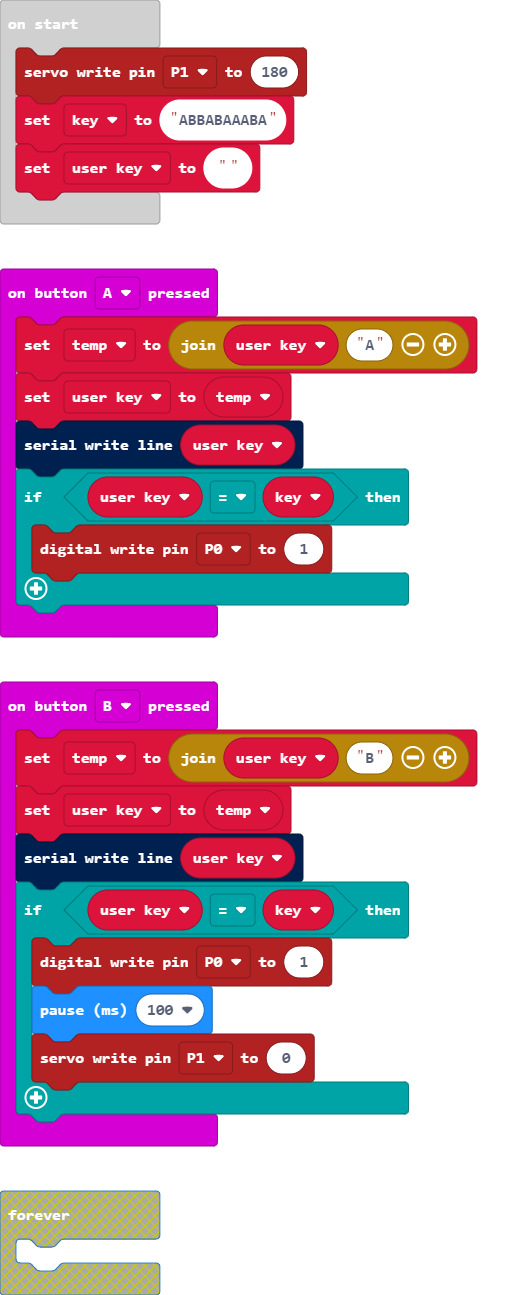
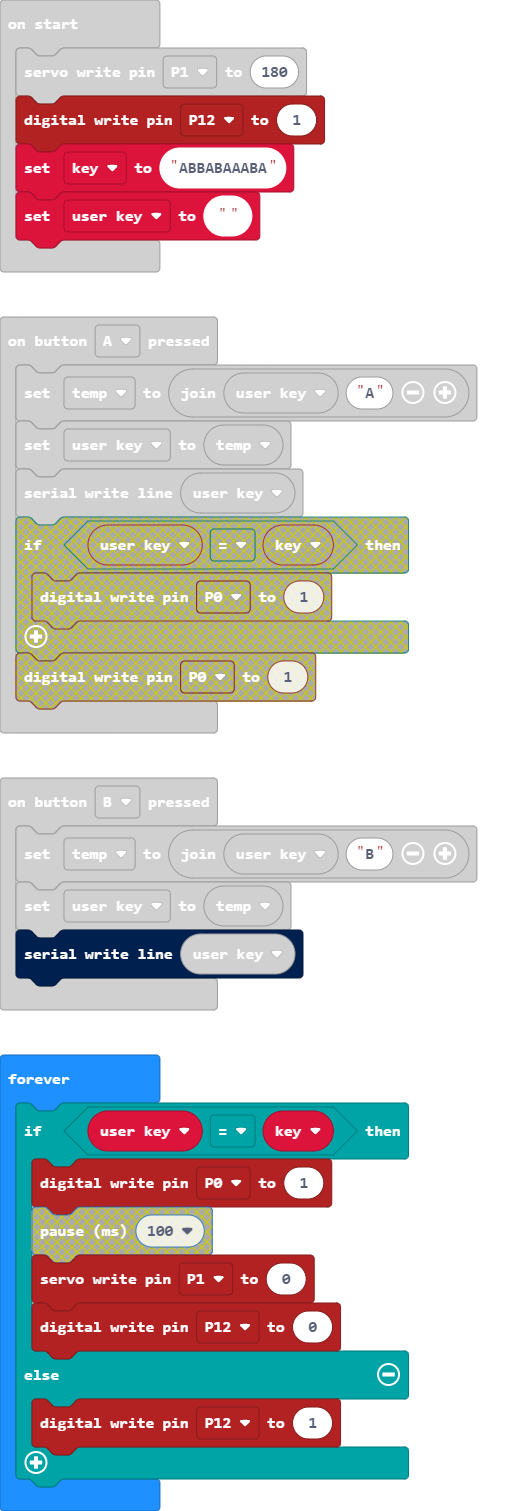
Update main.blocks, main.ts

diff --git a/main.ts b/main.ts
@@ -2,26 +2,27 @@ input.onButtonPressed(Button.A, function () {
     temp = "" + user_key + "A"
     user_key = temp
     serial.writeLine("" + (user_key))
-    if (user_key == key) {
-        pins.digitalWritePin(DigitalPin.P0, 1)
-    }
 })
 input.onButtonPressed(Button.B, function () {
     temp = "" + user_key + "B"
     user_key = temp
     serial.writeLine("" + (user_key))
-    if (user_key == key) {
-        pins.digitalWritePin(DigitalPin.P0, 1)
-        basic.pause(100)
-        pins.servoWritePin(AnalogPin.P1, 0)
-    }
 })
 let temp = ""
 let user_key = ""
-let key = ""
 pins.servoWritePin(AnalogPin.P1, 180)
-key = "ABBABAAABA"
+pins.digitalWritePin(DigitalPin.P12, 1)
+let key = "ABBABAAABA"
 user_key = ""
+basic.forever(function () {
+    if (user_key == key) {
+        pins.digitalWritePin(DigitalPin.P0, 1)
+        pins.servoWritePin(AnalogPin.P1, 0)
+        pins.digitalWritePin(DigitalPin.P12, 0)
+    } else {
+        pins.digitalWritePin(DigitalPin.P12, 1)
+    }
+})
 basic.forever(function () {
 	
 })
